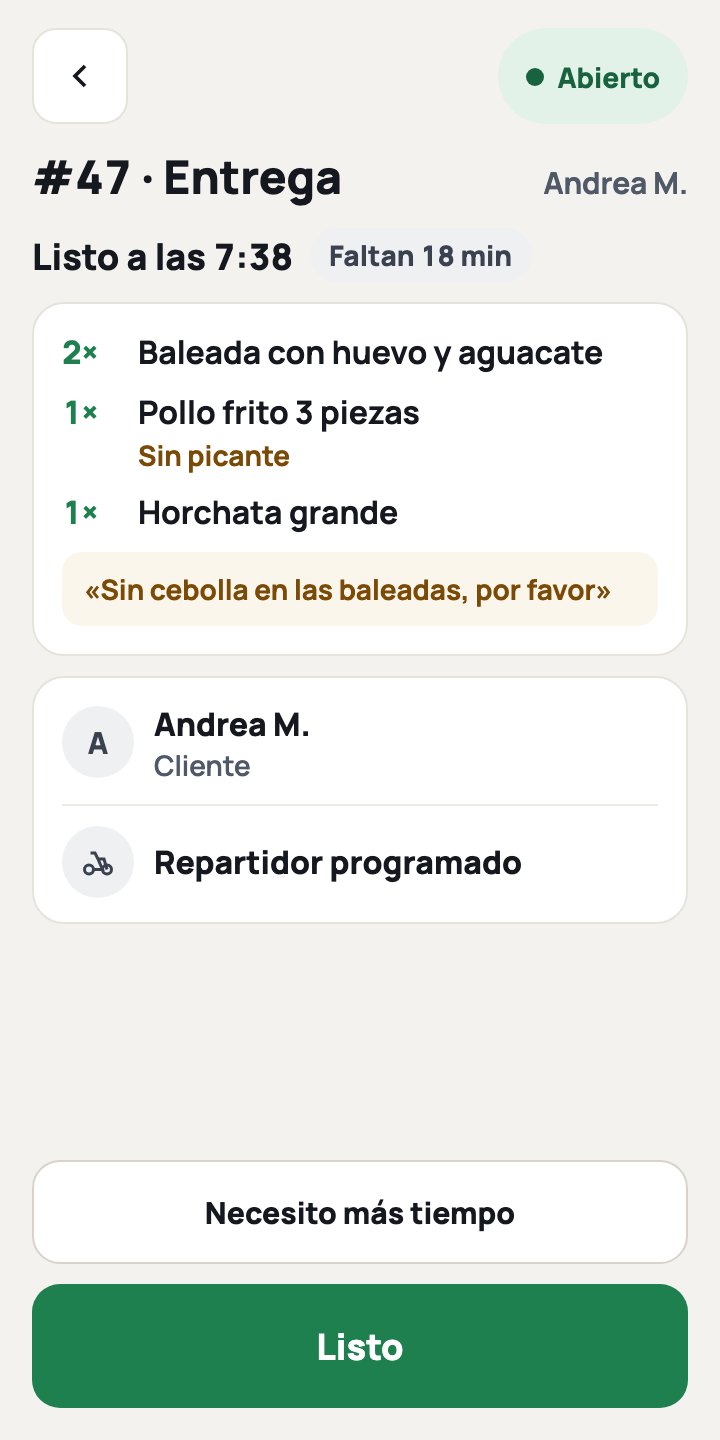
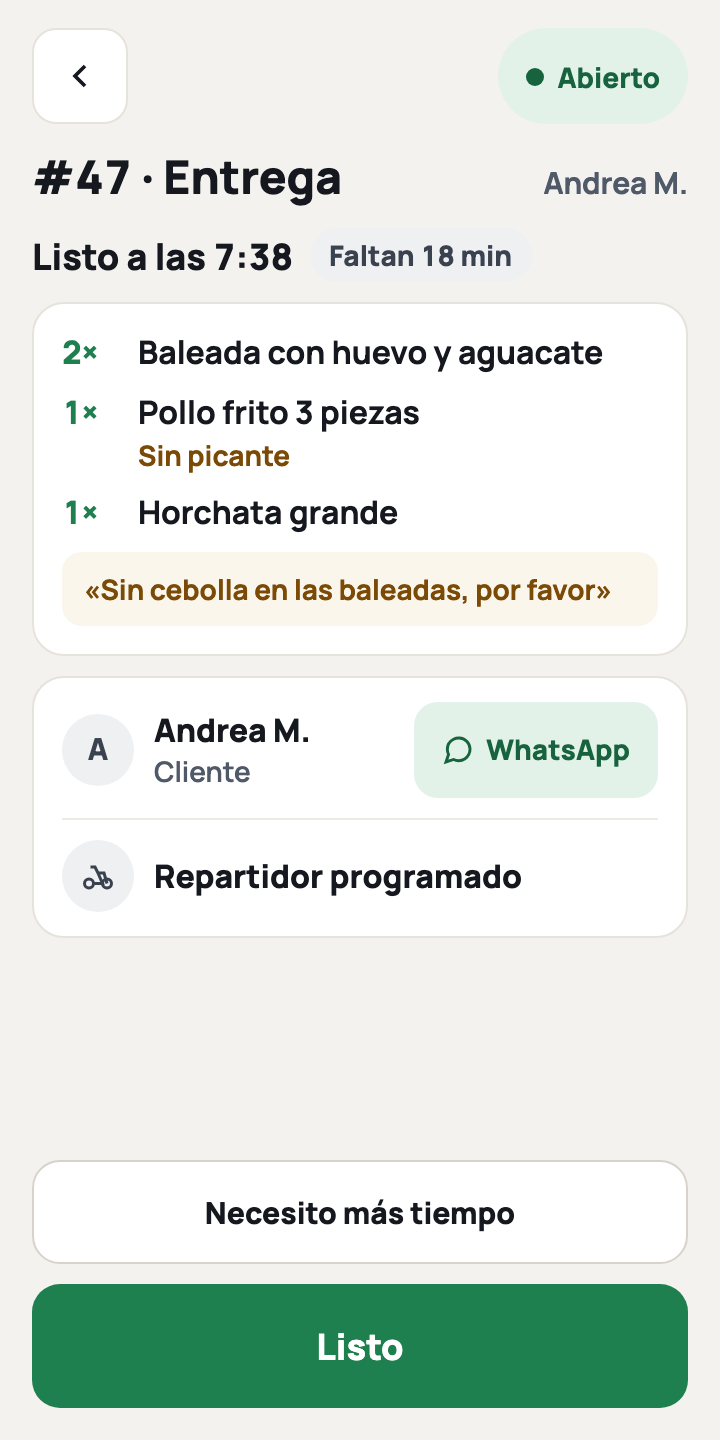
fix(h1b): phoneOf is a pure, tested model function used by view.js (the harness's no-op actions had hidden the WhatsApp pill); fidelity recaptured

diff --git a/xpizza-handheld/app.js b/xpizza-handheld/app.js
@@ -120,7 +120,7 @@ const driverOf = (oid) => M.driverInfo(S.driver[oid], S.eta[oid]);
 function vm() {
   return buildVM(S, {
     now: now(), online: online(), orders: viewOrders(), base: base(), sess, driverOf, set,
-    act: { doLogin, doPair, refreshStatus, pinPress, doSignOut, control, openOrder, handed, doReject, doMore, openWhatsApp, undoReady, doAccept, doReady, phoneOf,
+    act: { doLogin, doPair, refreshStatus, pinPress, doSignOut, control, openOrder, handed, doReject, doMore, openWhatsApp, undoReady, doAccept, doReady,
       testAlert: () => { sound.unlock(); bridge.alarm.start(['__prueba__']); setTimeout(() => bridge.alarm.stop(), 2500); toast('Sonando la alerta de prueba a todo volumen…'); } },
   });
 }
@@ -187,9 +187,8 @@ async function doReject(goneNames) {
   }
   set({ sheet: next });
 }
-function phoneOf(o) { const d = String((o && o.customer_phone) || '').replace(/\D/g, ''); return d.length === 8 ? `504${d}` : (d.length >= 10 ? d : ''); }
 function openWhatsApp(cur, v, brandName) {
-  const p = phoneOf(cur); if (!p || !v) return;
+  const p = M.phoneOf(cur); if (!p || !v) return;
   const text = `Hola ${v.cust.split(' ')[0]}, te escribimos de ${brandName} por tu pedido #${v.num}. ${WA_TEXT[S.waSel]}`;
   window.open(`https://wa.me/${p}?text=${encodeURIComponent(text)}`, '_blank', 'noopener');
   set({ sheet: null }); toast('Abriendo WhatsApp con el mensaje listo…');

diff --git a/xpizza-handheld/view.js b/xpizza-handheld/view.js
@@ -145,7 +145,7 @@ function detail(S, ctx, cur, t, off, b) {
     timeLine: isReady ? `Listo a las ${M.fmt(realAt)}` : `Listo a las ${M.fmt(rm)}`,
     tag: isReady ? (realAt !== null && rm !== null ? (realAt <= rm ? 'A tiempo' : `Con ${Math.ceil((realAt - rm) / MIN)} min de atraso`) : '') : lt.label,
     tagCls: isReady ? '' : lt.cls, driverName: dv.name, driverSub: dv.sub,
-    showWA: !off && !!ctx.act.phoneOf(cur), canMore: M.canMore(cur, drv.assigned, off) && !cur._pending, info, hasInfo: !!info,
+    showWA: !off && !!M.phoneOf(cur), canMore: M.canMore(cur, drv.assigned, off) && !cur._pending, info, hasInfo: !!info,
     accept: () => ctx.act.doAccept(cur, b), ready: () => ctx.act.doReady(cur),
   };
 }

diff --git a/xpizza-handheld/model.test.js b/xpizza-handheld/model.test.js
@@ -243,3 +243,11 @@ test('applyPending: queued accept / more / ready (and an undo-window Listo) over
   const moved = M.applyPending({ a: order('a', { status: 'cancelled' }) }, [{ action: 'accept', order_id: 'a', payload: { prep_min: 20 }, enqueued_at: T }], []);
   assert.equal(moved.a.status, 'cancelled');
 });
+
+test('phoneOf: 8 local digits → +504; international kept; junk → none', () => {
+  assert.equal(M.phoneOf({ customer_phone: '9999-0000' }), '50499990000');
+  assert.equal(M.phoneOf({ customer_phone: '+504 9999 0000' }), '50499990000');
+  assert.equal(M.phoneOf({ customer_phone: '123' }), '');
+  assert.equal(M.phoneOf({}), '');
+  assert.equal(M.phoneOf(null), '');
+});

diff --git a/xpizza-handheld/model.js b/xpizza-handheld/model.js
@@ -325,3 +325,9 @@ export function applyPending(orders, items, undoReadies = []) {
   }
   return out;
 }
+
+// the customer's WhatsApp number from the order (8 local digits → Honduras +504; longer = already international); '' = none
+export function phoneOf(o) {
+  const d = String((o && o.customer_phone) || '').replace(/\D/g, '');
+  return d.length === 8 ? `504${d}` : (d.length >= 10 && d.length <= 15 ? d : '');
+}
